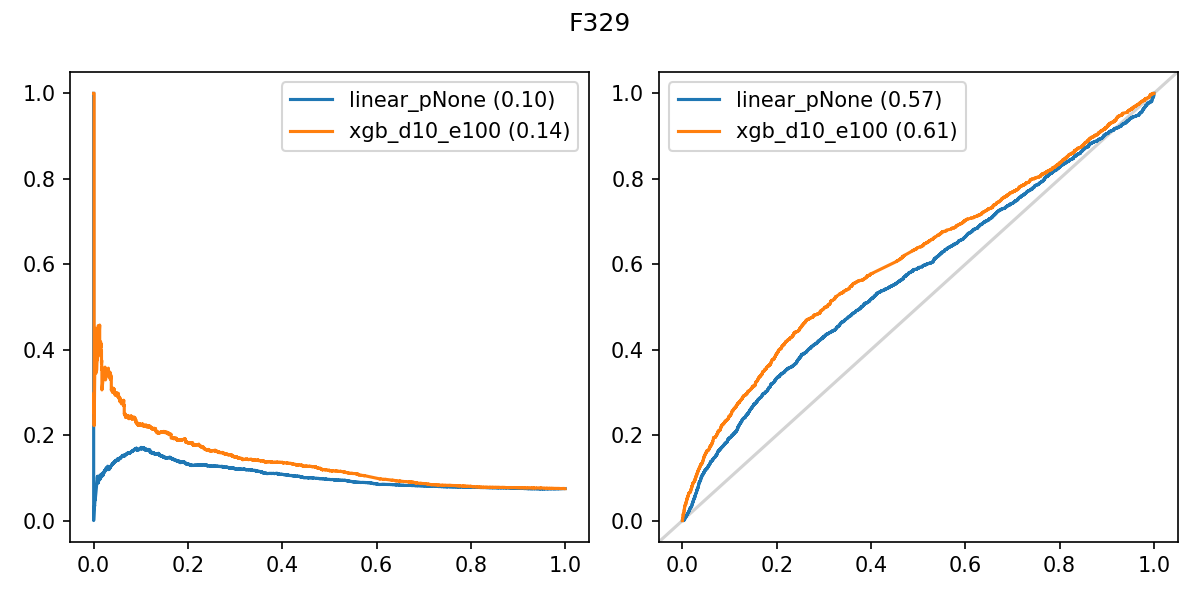
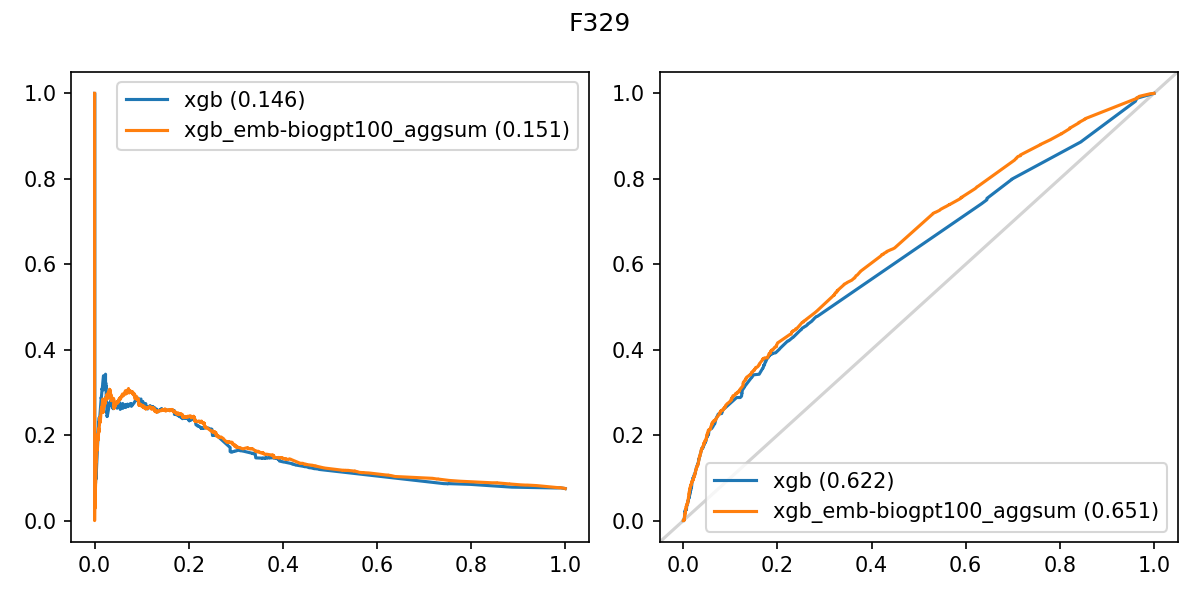
most recent xgb results

diff --git a/plot_results.py b/plot_results.py
@@ -5,8 +5,17 @@ import pickle as pk
 from sklearn.metrics import auc
 #%%
 models = [
-    'linear_pNone',
-    'xgb_d10_e100'
+    # 'linear_pNone',
+    # 'linear_pNone_emb-biogpt100',
+    # 'linear_pNone_emb-biogpt100_aggsum',
+    # 'linear_pNone_emb-biogpt100_aggmean',
+    'xgb',
+    'xgb_emb-biogpt100_aggsum'
+    # 'xgb_d10_e100_emb-biogpt100_aggsum'
+    # 'xgb_d5_e50_emb-biogpt100_aggsum'
+    # 'xgb_d2_e20_emb-biogpt100_aggmean'
+    # 'xgb_d2_e20_emb-biogpt100_aggsum'
+    # 'xgb_d5_e50_emb-biogpt100_aggmean',
 ]
 tcode = 'F329'
 # %%
@@ -22,12 +31,12 @@ plt.figure(figsize=(8, 4))
 plt.suptitle(tcode)
 plt.subplot(1, 2, 1)
 for mdl, (pr, re) in zip(models, aps):
-    plt.plot(re, pr, label=f'{mdl} ({auc(re, pr):.2f})')
+    plt.plot(re, pr, label=f'{mdl} ({auc(re, pr):.3f})')
 plt.legend()
 
 plt.subplot(1, 2, 2)
 for mdl, (tpr, fpr) in zip(models, roc):
-    plt.plot(tpr, fpr, label=f'{mdl} ({auc(tpr, fpr):.2f})', zorder=1)
+    plt.plot(tpr, fpr, label=f'{mdl} ({auc(tpr, fpr):.3f})', zorder=1)
 plt.axline((0,0), slope=1, color='lightgray', zorder=0)
 plt.legend()
 

diff --git a/helpers.py b/helpers.py
@@ -150,7 +150,7 @@ def get_visit_history_embedding(
         for pid, hls, iscase in tqdm(hsamples):
             if pid not in pids: continue
             embs = []
-            for h in hls:
+            for h in hls[-1:]:
                 for c in tte.diagnoses.visit[h]:
                     match_c = format_code(c)
                     if match_c not in vocab: continue
